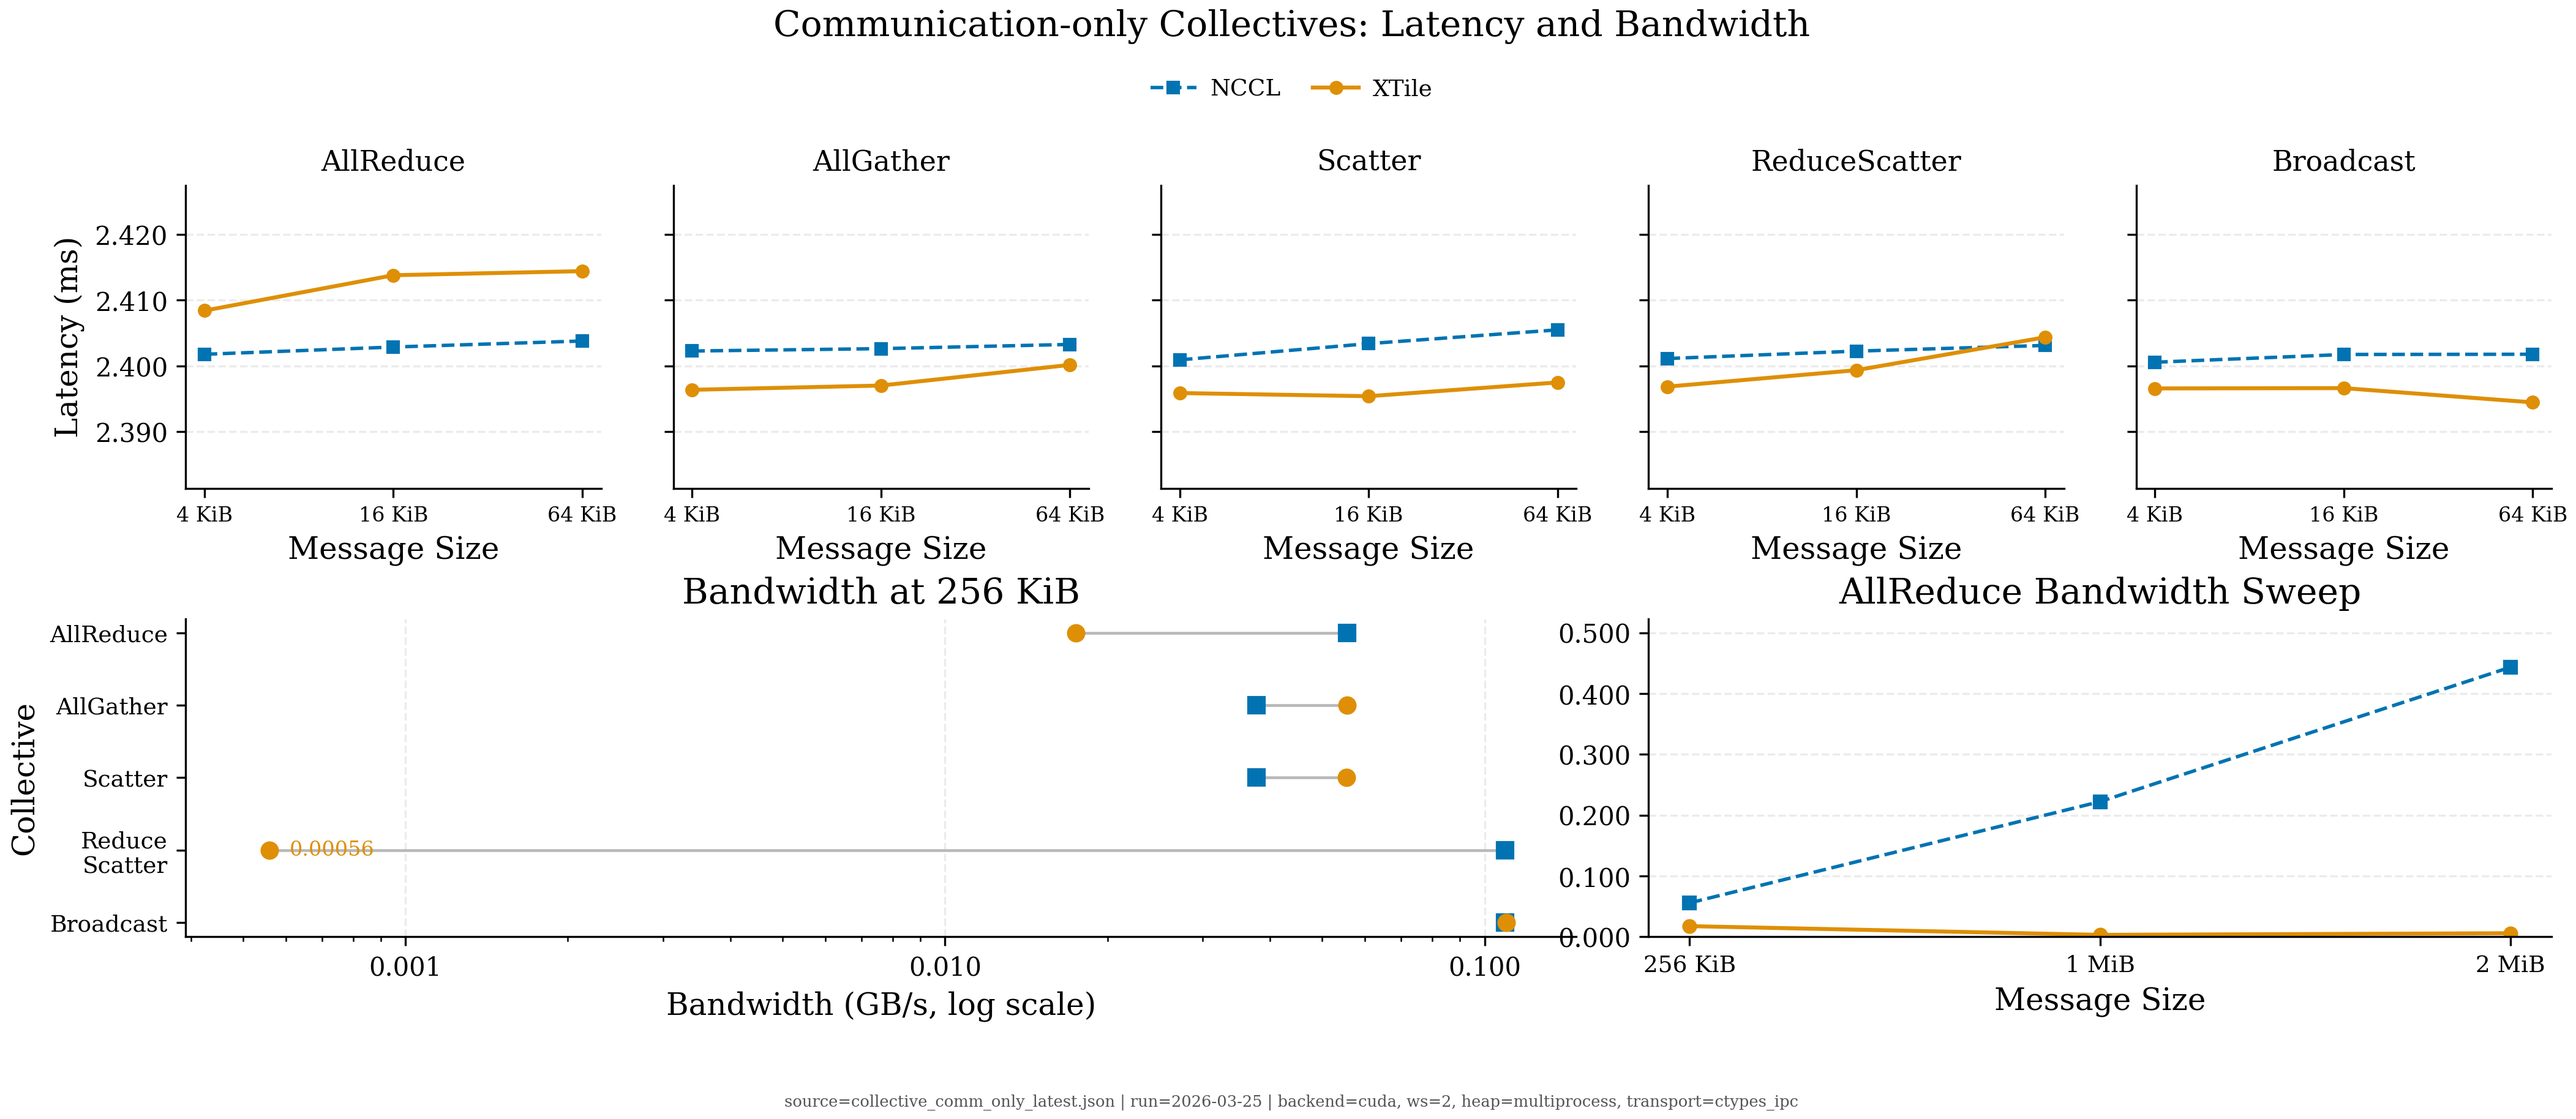
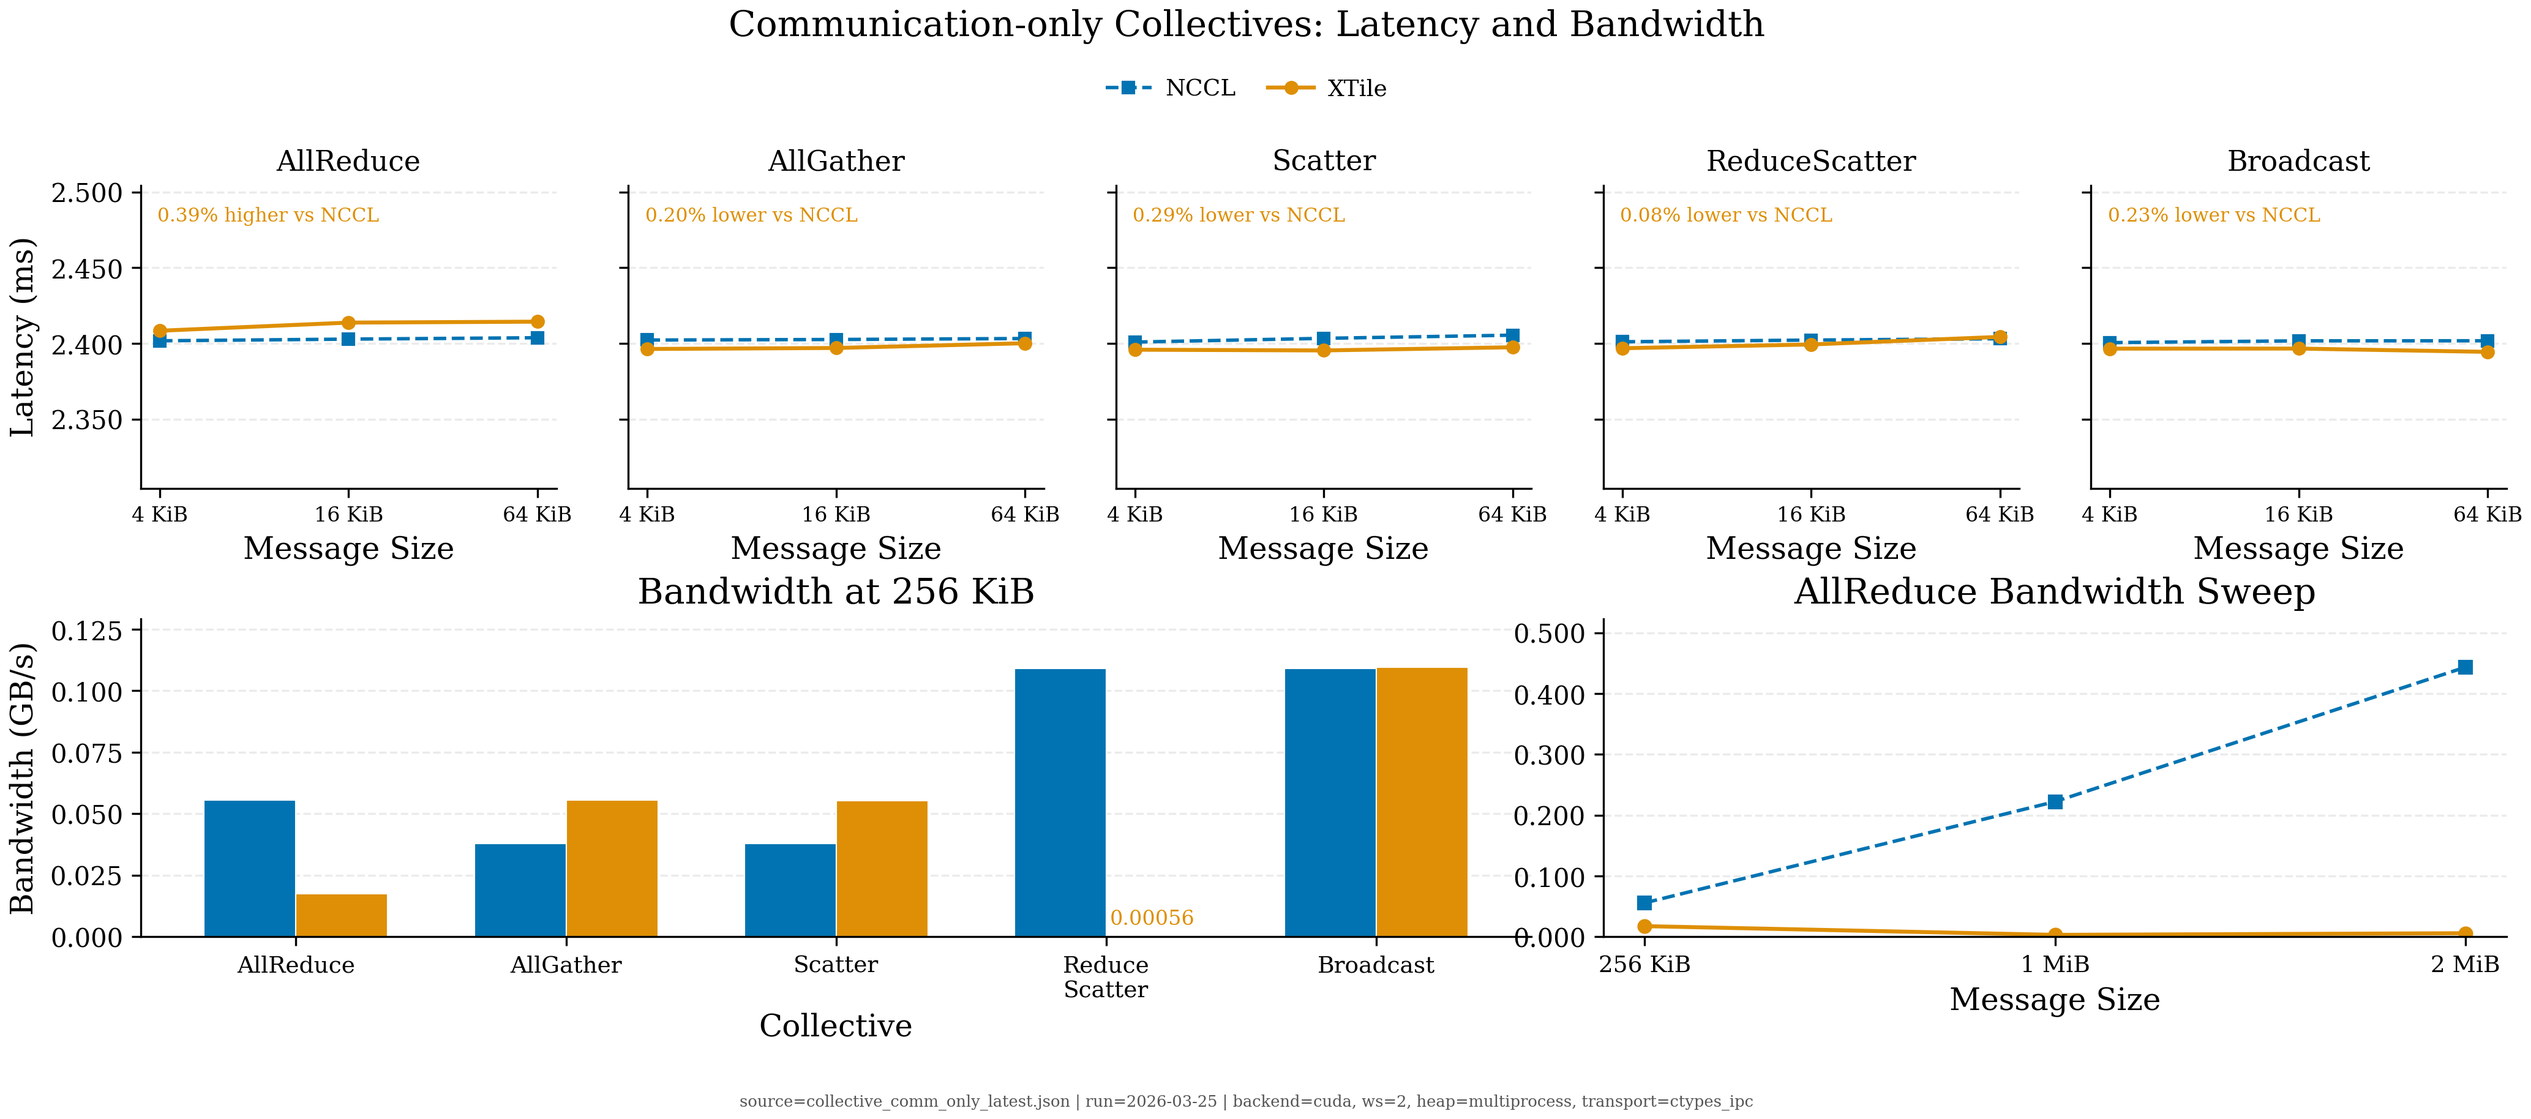
update

diff --git a/scripts/plot_figures.py b/scripts/plot_figures.py
@@ -773,6 +773,12 @@ def fig6_collective_comm_only():
     small_x = np.arange(len(small_sizes))
     small_labels = [_format_message_size_mib(size / (1024.0 * 1024.0)) for size in small_sizes]
     latency_ylim = _metric_limits(("xtile_ms", "nccl_ms"), max_bytes=COLLECTIVE_LATENCY_MAX_BYTES)
+    latency_center = 0.5 * (latency_ylim[0] + latency_ylim[1])
+    latency_span = max(latency_ylim[1] - latency_ylim[0], 0.20)
+    latency_ylim = (
+        max(0.0, latency_center - 0.5 * latency_span),
+        latency_center + 0.5 * latency_span,
+    )
 
     legend_handles = None
     legend_labels = None
@@ -812,12 +818,27 @@ def fig6_collective_comm_only():
         if legend_handles is None:
             legend_handles, legend_labels = ax.get_legend_handles_labels()
 
+        mean_delta_pct = (float(np.mean(xtile_ms)) / max(float(np.mean(nccl_ms)), 1e-9) - 1.0) * 100.0
+        delta_direction = "higher" if mean_delta_pct >= 0 else "lower"
+        ax.text(
+            0.04,
+            0.93,
+            f"{abs(mean_delta_pct):.2f}% {delta_direction} vs NCCL",
+            transform=ax.transAxes,
+            ha="left",
+            va="top",
+            fontsize=7.5,
+            color=COLORS[1],
+            bbox=dict(boxstyle="round,pad=0.18", facecolor="white", edgecolor="none", alpha=0.88),
+        )
+
         ax.set_title(title, fontsize=11)
         ax.set_xticks(small_x)
         ax.set_xticklabels(small_labels, fontsize=8)
         ax.set_ylim(*latency_ylim)
         ax.grid(True, axis="y", alpha=0.25)
         ax.grid(False, axis="x")
+        ax.yaxis.set_major_locator(ticker.MultipleLocator(0.05))
         ax.yaxis.set_major_formatter(ticker.StrMethodFormatter("{x:.3f}"))
         ax.set_xlabel("Message Size")
         if idx == 0:
@@ -834,65 +855,53 @@ def fig6_collective_comm_only():
         anchor_points.append((title, point["xtile_bw"], point["nccl_bw"]))
 
     if anchor_points:
-        y = np.arange(len(anchor_points))
+        x = np.arange(len(anchor_points))
+        width = 0.34
         anchor_labels = []
         xtile_bw = [item[1] for item in anchor_points]
         nccl_bw = [item[2] for item in anchor_points]
         for title, _, _ in anchor_points:
             anchor_labels.append("Reduce\nScatter" if title == "ReduceScatter" else title)
-        minima = [min(xt, nc) for xt, nc in zip(xtile_bw, nccl_bw)]
-        maxima = [max(xt, nc) for xt, nc in zip(xtile_bw, nccl_bw)]
-
-        anchor_ax.hlines(
-            y,
-            minima,
-            maxima,
-            color="#B8B8B8",
-            linewidth=1.1,
-            zorder=1,
-        )
-        anchor_ax.plot(
+        anchor_ax.bar(
+            x - width / 2,
             nccl_bw,
-            y,
-            "s",
+            width,
             color=COLORS[0],
-            markersize=6.2,
+            edgecolor="white",
+            linewidth=0.5,
             label="NCCL",
-            zorder=3,
         )
-        anchor_ax.plot(
+        anchor_ax.bar(
+            x + width / 2,
             xtile_bw,
-            y,
-            "o",
+            width,
             color=COLORS[1],
-            markersize=6.2,
+            edgecolor="white",
+            linewidth=0.5,
             label="XTile",
-            zorder=4,
         )
-        anchor_ax.set_yticks(y)
-        anchor_ax.set_yticklabels(anchor_labels, fontsize=9)
-        anchor_ax.invert_yaxis()
-        anchor_ax.set_ylabel("Collective")
-        anchor_ax.set_xlabel("Bandwidth (GB/s, log scale)")
         anchor_ax.set_title("Bandwidth at 256 KiB")
-        anchor_ax.set_xscale("log")
-        anchor_ax.set_xlim(min(minima) * 0.7, max(maxima) * 1.35)
-        anchor_ax.grid(True, axis="x", which="major", alpha=0.25)
-        anchor_ax.grid(False, axis="y")
-        anchor_ax.xaxis.set_major_formatter(ticker.StrMethodFormatter("{x:.3f}"))
+        anchor_ax.set_ylabel("Bandwidth (GB/s)")
+        anchor_ax.set_xticks(x)
+        anchor_ax.set_xticklabels(anchor_labels, fontsize=9)
+        anchor_ax.set_xlabel("Collective")
+        anchor_ax.set_ylim(0.0, max(max(xtile_bw), max(nccl_bw)) * 1.18)
+        anchor_ax.grid(True, axis="y", alpha=0.25)
+        anchor_ax.grid(False, axis="x")
+        anchor_ax.yaxis.set_major_formatter(ticker.StrMethodFormatter("{x:.3f}"))
 
         reduce_scatter_idx = next(
             (idx for idx, label in enumerate(anchor_labels) if label == "Reduce\nScatter"),
             None,
         )
         if reduce_scatter_idx is not None:
-            anchor_ax.annotate(
+            y_offset = max(anchor_ax.get_ylim()[1] * 0.02, 0.0015)
+            anchor_ax.text(
+                x[reduce_scatter_idx] + width / 2,
+                xtile_bw[reduce_scatter_idx] + y_offset,
                 f"{xtile_bw[reduce_scatter_idx]:.5f}",
-                xy=(xtile_bw[reduce_scatter_idx], y[reduce_scatter_idx]),
-                xytext=(8, 0),
-                textcoords="offset points",
-                ha="left",
-                va="center",
+                ha="center",
+                va="bottom",
                 fontsize=8,
                 color=COLORS[1],
             )
